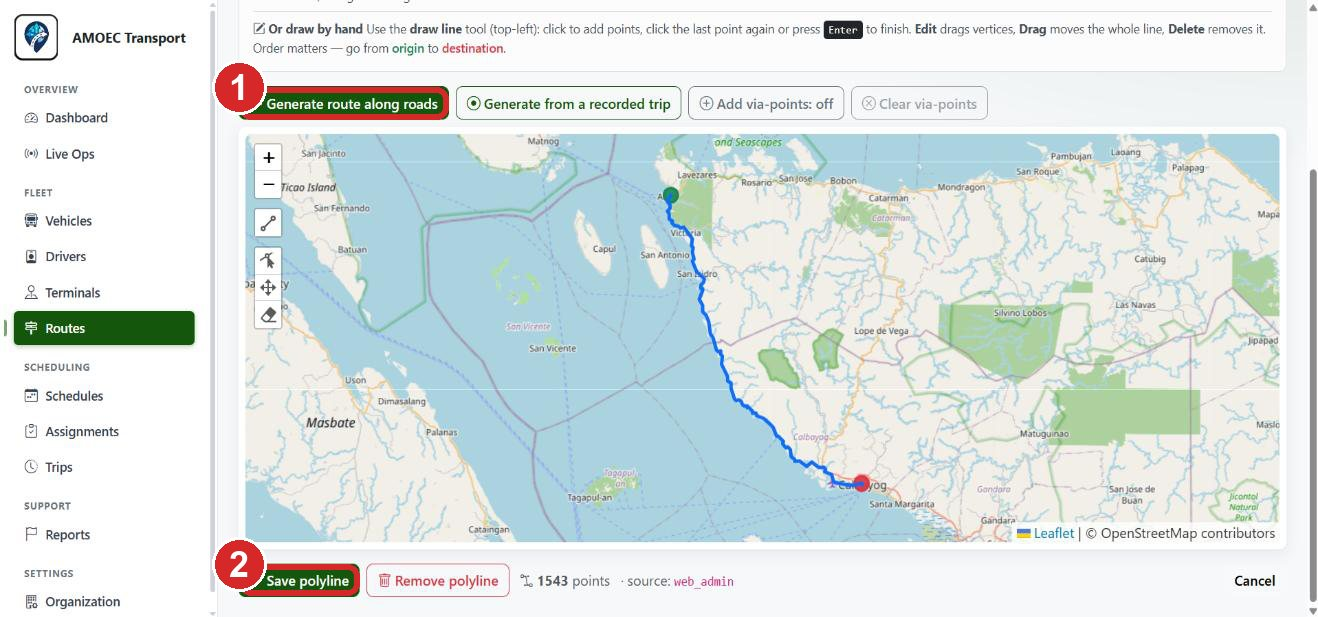
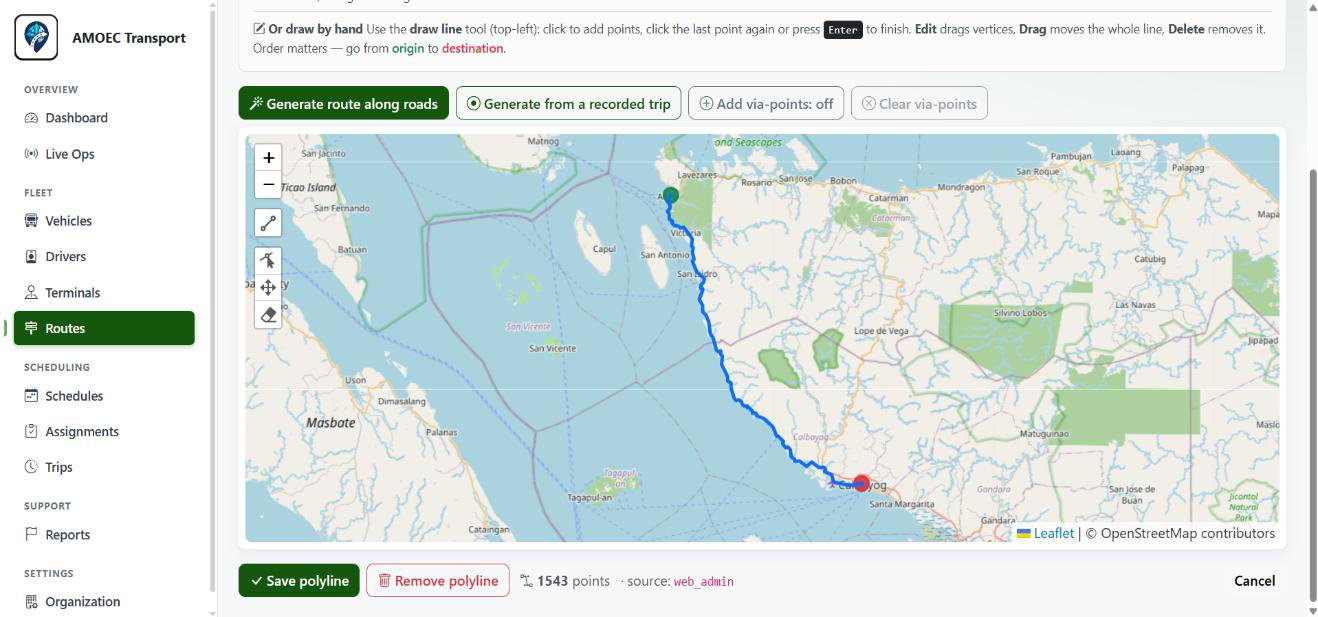
Landing page: clean sharper screenshots, real bus marker, passenger-waits story
Screens use the untouched raw screenshots (no red manual numbers) at native resolution,
JPEG q92-94; the low-resolution live-map crop is replaced by the 517x1149 capture.
The hero now tells one ride: a passenger waits at a stop on the route, the bus (the same
top-down marker the app and console draw, live green with the brand stripe) approaches
while the ETA counts down, the passenger boards, and the bus carries on to Calbayog.
A four-step strip under the picture lights up with the current step.

diff --git a/public/js/landing.js b/public/js/landing.js
@@ -61,40 +61,79 @@
         items.forEach(function (el) { el.classList.add('in'); });
     }
 
-    // ---------- the bus driving along the route ----------
+    // ---------- one ride: a passenger waits, the bus comes, the passenger boards, the bus goes on ----------
     var stage = document.getElementById('routeStage');
     var path = document.getElementById('routePath');
     var done = document.getElementById('routeDone');
     var bus = document.getElementById('busMarker');
     var bubble = document.getElementById('etaBubble');
     var etaText = document.getElementById('etaText');
-    if (stage && path && done && bus && bubble && etaText) {
+    var waiter = document.getElementById('waiter');
+    var stepItems = document.querySelectorAll('#routeSteps li');
+    if (stage && path && done && bus && bubble && etaText && waiter) {
         var len = path.getTotalLength();
-        var PERIOD = 11000, PAUSE = 1400;
-        var place = function (t) {
+        var STOP = 0.42;                                   // where along the route the passenger waits
+        var A = 6500, B = 1800, C = 6500, D = 1800;        // approach, boarding, ride, arrival (ms)
+        var CYCLE = A + B + C + D;
+
+        // put the passenger beside the route at the stop, on the side with more room (up and to the left)
+        (function () {
+            var p = path.getPointAtLength(len * STOP), q = path.getPointAtLength(len * STOP + 3);
+            var dx = q.x - p.x, dy = q.y - p.y, n = Math.sqrt(dx * dx + dy * dy) || 1;
+            var nx = -dy / n, ny = dx / n;                 // a normal of the route
+            if (ny > 0) { nx = -nx; ny = -ny; }            // pick the one that points up
+            waiter.setAttribute('transform', 'translate(' + (p.x + nx * 36) + ' ' + (p.y + ny * 36) + ')');
+        })();
+
+        var ease = function (x) { return x < 0.5 ? 2 * x * x : 1 - Math.pow(-2 * x + 2, 2) / 2; };
+        var setStep = function (n) {
+            stepItems.forEach(function (li) { li.classList.toggle('active', Number(li.getAttribute('data-step')) === n); });
+        };
+        var place = function (t, label) {
             var p = path.getPointAtLength(len * t);
-            var q = path.getPointAtLength(Math.min(len, len * t + 2));
-            var ang = Math.atan2(q.y - p.y, q.x - p.x) * 180 / Math.PI * 0.45; // lean a little with the road
-            bus.setAttribute('transform', 'translate(' + p.x + ' ' + p.y + ') rotate(' + ang + ')');
-            var bx = Math.min(548, Math.max(56, p.x)), by = Math.max(64, p.y);
+            var a0 = path.getPointAtLength(Math.max(0, len * t - 6)), a1 = path.getPointAtLength(Math.min(len, len * t + 6));
+            var heading = Math.atan2(a1.y - a0.y, a1.x - a0.x) * 180 / Math.PI + 90;   // the marker points up at 0 deg
+            bus.setAttribute('transform', 'translate(' + p.x + ' ' + p.y + ') rotate(' + heading.toFixed(1) + ')');
+            var bx = Math.min(536, Math.max(64, p.x)), by = Math.max(68, p.y - 20);
             bubble.setAttribute('transform', 'translate(' + bx + ' ' + by + ')');
             done.setAttribute('stroke-dasharray', (len * t) + ' ' + len);
-            etaText.textContent = t > 0.985 ? 'Arrived' : 'ETA ' + Math.max(1, Math.ceil(12 * (1 - t))) + ' min';
+            etaText.textContent = label;
+        };
+        var frameAt = function (el) {
+            var t, label, step, show = 1;
+            if (el < A) {                                  // the bus comes to the passenger
+                var p = el / A;
+                t = ease(p) * STOP;
+                label = p > 0.97 ? 'Bus is here' : 'ETA ' + Math.max(1, Math.ceil(6 * (1 - p))) + ' min';
+                step = p < 0.16 ? 1 : 2;
+            } else if (el < A + B) {                       // boarding
+                var k = (el - A) / B;
+                t = STOP; label = k < 0.5 ? 'Boarding' : 'Boarded'; step = 3; show = k < 0.5 ? 1 : 0;
+            } else if (el < A + B + C) {                   // the ride to the destination
+                var r = (el - A - B) / C;
+                t = STOP + ease(r) * (1 - STOP);
+                label = r > 0.97 ? 'Arriving' : 'Calbayog in ' + Math.max(1, Math.ceil(8 * (1 - r))) + ' min';
+                step = 3; show = 0;
+            } else {                                       // arrived
+                t = 1; label = 'Arrived'; step = 4; show = 0;
+            }
+            place(t, label);
+            waiter.style.opacity = show;
+            setStep(step);
         };
         if (reduce) {
-            place(0.45);                                  // one still picture, no loop
+            frameAt(A * 0.55);                             // one still picture, no loop
         } else {
             var raf = 0, startedAt = null;
-            var ease = function (x) { return x < 0.5 ? 2 * x * x : 1 - Math.pow(-2 * x + 2, 2) / 2; };
             var frame = function (ts) {
                 if (startedAt === null) startedAt = ts;
-                var el = (ts - startedAt) % (PERIOD + PAUSE);
-                place(el >= PERIOD ? 1 : ease(el / PERIOD) * 0.995 + (el / PERIOD) * 0.005);
+                frameAt((ts - startedAt) % CYCLE);
                 raf = requestAnimationFrame(frame);
             };
             whileVisible(stage,
                 function () { if (!raf) raf = requestAnimationFrame(frame); },
                 function () { if (raf) { cancelAnimationFrame(raf); raf = 0; } });
+            frameAt(0);                                    // a first frame at once, before the loop starts
         }
     }
 

diff --git a/public/css/landing.css b/public/css/landing.css
@@ -46,8 +46,19 @@ body { font-family: Arial, Helvetica, sans-serif; color: var(--ink); background:
 .route-svg .stop circle { fill: #fff; stroke: var(--accent); stroke-width: 4; }
 .route-svg .stop text { fill: #fff; font-size: 17px; font-weight: 700; }
 .route-svg #etaText { fill: var(--brand); font-size: 15px; font-weight: 700; }
-.route-svg .pulse { fill: rgba(255, 193, 7, .3); animation: pulse 1.8s ease-out infinite; transform-box: fill-box; transform-origin: center; }
-@keyframes pulse { 0% { transform: scale(.6); opacity: .9; } 100% { transform: scale(1.7); opacity: 0; } }
+.route-svg #busMarker { filter: drop-shadow(0 3px 4px rgba(0, 0, 0, .5)); }
+/* the waiting passenger: a pulsing ring so the eye finds them, and a tag that says so */
+.route-svg #waiter { transition: opacity .5s ease; }
+.route-svg .wait-ring { fill: rgba(255, 193, 7, .35); animation: pulse 1.8s ease-out infinite; transform-box: fill-box; transform-origin: center; }
+.route-svg .wait-tag text { fill: var(--brand); font-size: 12.5px; font-weight: 700; }
+@keyframes pulse { 0% { transform: scale(.7); opacity: .95; } 100% { transform: scale(1.9); opacity: 0; } }
+
+/* the four steps of the ride under the picture; the current one lights up */
+.route-steps { list-style: none; display: grid; grid-template-columns: repeat(4, 1fr); gap: .5rem; margin: .9rem 0 0; padding: 0; }
+.route-steps li { display: flex; flex-direction: column; align-items: center; gap: .2rem; text-align: center; padding: .55rem .3rem; border-radius: .75rem; background: rgba(255, 255, 255, .07); color: rgba(255, 255, 255, .7); font-size: .78rem; line-height: 1.2; border: 1px solid transparent; transition: background .3s, color .3s, border-color .3s, transform .3s; }
+.route-steps li i { font-size: 1.15rem; }
+.route-steps li.active { background: rgba(255, 193, 7, .2); color: #fff; border-color: rgba(255, 193, 7, .75); transform: translateY(-3px); }
+@media (max-width: 575.98px) { .route-steps li span { font-size: .7rem; } }
 
 /* ---------- sections ---------- */
 .section { padding: 5.5rem 0; }
@@ -135,7 +146,7 @@ body { font-family: Arial, Helvetica, sans-serif; color: var(--ink); background:
 @media (prefers-reduced-motion: reduce) {
     html { scroll-behavior: auto; }
     .js .reveal { opacity: 1; transform: none; transition: none; }
-    .route-svg .pulse { animation: none; }
+    .route-svg .wait-ring { animation: none; }
     .stat:hover, .step-card:hover, .feature-card:hover, .user-card:hover, .screen-tab:hover { transform: none; }
 }
 @media (max-width: 575.98px) {

diff --git a/resources/views/landing.blade.php b/resources/views/landing.blade.php
@@ -28,10 +28,12 @@
                 </div>
 
                 <div class="col-lg-6 reveal">
-                    {{-- A bus drives along a route and its arrival time counts down. Drawn in SVG, moved by landing.js. --}}
+                    {{-- The story of one ride, drawn in SVG and moved by landing.js: a passenger waits at their stop, the bus approaches while
+                         the arrival time counts down, the passenger boards, and the bus carries on to the destination.
+                         The bus is the same top-down marker the app and the console draw on their maps. --}}
                     <div class="route-stage" id="routeStage">
                         <svg viewBox="0 0 600 400" class="route-svg" role="img"
-                             aria-label="A bus travelling along a route from Allen to Calbayog while its estimated arrival time counts down">
+                             aria-label="A passenger waits at a stop on the route from Allen to Calbayog. A bus approaches while its arrival time counts down, the passenger boards, and the bus continues to Calbayog.">
                             <defs>
                                 <linearGradient id="routeGrad" x1="0" x2="1">
                                     <stop offset="0" stop-color="#ffd54f"/>
@@ -42,22 +44,42 @@
                                   fill="none" stroke="rgba(255,255,255,.28)" stroke-width="10" stroke-linecap="round"/>
                             <path id="routeDone" d="M40 330 C 140 300, 150 170, 250 195 S 400 305, 470 160 S 550 80, 565 60"
                                   fill="none" stroke="url(#routeGrad)" stroke-width="4" stroke-linecap="round" stroke-dasharray="0 2000"/>
-                            <g class="stop"><circle cx="40" cy="330" r="9"/><text x="40" y="360" text-anchor="middle">Allen</text></g>
+                            <g class="stop"><circle cx="40" cy="330" r="9"/><text x="40" y="362" text-anchor="middle">Allen</text></g>
                             <g class="stop"><circle cx="565" cy="60" r="9"/><text x="588" y="94" text-anchor="end">Calbayog</text></g>
+
+                            {{-- the waiting passenger (placed on the route by landing.js) --}}
+                            <g id="waiter">
+                                <circle class="wait-ring" r="20"/>
+                                <circle r="15" fill="#ffc107" stroke="#fff" stroke-width="2.5"/>
+                                <circle cx="0" cy="-5.2" r="4.3" fill="#165935"/>
+                                <path d="M-7.4 8.2 C-7.4 0.6 7.4 0.6 7.4 8.2 Z" fill="#165935"/>
+                                <g class="wait-tag"><rect x="-47" y="-48" width="94" height="22" rx="11" fill="#fff"/><text x="0" y="-33" text-anchor="middle">You wait here</text></g>
+                            </g>
+
+                            {{-- the bus: the same marker as the app and the console (body = live green, operator stripe across the roof) --}}
                             <g id="busMarker">
-                                <circle r="22" class="pulse"/>
-                                <g class="bus-body">
-                                    <rect x="-15" y="-10" width="30" height="20" rx="5" fill="#ffc107"/>
-                                    <rect x="-11" y="-6" width="9" height="6" rx="1.5" fill="#165935"/>
-                                    <rect x="1" y="-6" width="9" height="6" rx="1.5" fill="#165935"/>
-                                    <circle cx="-8" cy="10" r="3" fill="#212529"/><circle cx="8" cy="10" r="3" fill="#212529"/>
+                                <g class="bus-shadow"><ellipse rx="16" ry="26" fill="rgba(0,0,0,.28)" transform="translate(4 5)"/></g>
+                                <g transform="scale(1.25) translate(-27 -27)">
+                                    <rect x="15.93" y="15.81" width="2.97" height="1.62" rx=".81" fill="#0b5a28"/>
+                                    <rect x="35.1" y="15.81" width="2.97" height="1.62" rx=".81" fill="#0b5a28"/>
+                                    <rect x="18.9" y="10.26" width="16.2" height="33.48" rx="4.46" fill="#15A04A" stroke="#0b5a28" stroke-width="1.1"/>
+                                    <rect x="20.68" y="12.6" width="12.64" height="5.03" rx="1.2" fill="#1C2B33" opacity=".92"/>
+                                    <rect x="21.65" y="37.04" width="10.7" height="4.36" rx="1.2" fill="#1C2B33" opacity=".92"/>
+                                    <rect x="21.01" y="20.3" width="11.98" height="14.07" rx="1.1" fill="#F2F4F5" opacity=".95"/>
+                                    <rect x="21.01" y="26.36" width="11.98" height="1.94" fill="#165935"/>
                                 </g>
                             </g>
                             <g id="etaBubble">
-                                <rect x="-46" y="-52" width="92" height="30" rx="15" fill="#fff"/>
-                                <text id="etaText" x="0" y="-32" text-anchor="middle">ETA 12 min</text>
+                                <rect id="etaBox" x="-62" y="-60" width="124" height="30" rx="15" fill="#fff"/>
+                                <text id="etaText" x="0" y="-40" text-anchor="middle">ETA 6 min</text>
                             </g>
                         </svg>
+                        <ol class="route-steps" id="routeSteps" aria-hidden="true">
+                            <li data-step="1"><i class="bi bi-person-standing"></i><span>Wait at your stop</span></li>
+                            <li data-step="2"><i class="bi bi-clock-history"></i><span>Bus approaches</span></li>
+                            <li data-step="3"><i class="bi bi-person-check-fill"></i><span>Board and ride</span></li>
+                            <li data-step="4"><i class="bi bi-flag-fill"></i><span>Arrive</span></li>
+                        </ol>
                     </div>
                 </div>
             </div>
@@ -190,7 +212,7 @@
                 <div class="col-lg-6 text-center">
                     <div class="phone-scene" id="phoneScene">
                         <div class="phone" id="phone">
-                            <div class="face front"><img id="phoneImg" src="{{ asset('images/landing/card.jpg') }}" alt="Live map with the closest bus, its distance and its arrival time" width="310" height="660"></div>
+                            <div class="face front"><img id="phoneImg" src="{{ asset('images/landing/live.jpg') }}" alt="Live map with the closest bus, its distance and its arrival time" width="310" height="690"></div>
                             <div class="face back"><img src="{{ asset('images/amoec-logo.png') }}" alt="" width="96" height="96"><span>AMOEC Track</span></div>
                             <div class="side side-l"></div><div class="side side-r"></div><div class="side side-t"></div><div class="side side-b"></div>
                         </div>
@@ -199,16 +221,21 @@
                 <div class="col-lg-6">
                     <h3 class="h4 mb-3">Choose a screen</h3>
                     <div class="d-grid gap-2" id="phoneTabs">
-                        <button type="button" class="screen-tab active" aria-pressed="true" data-src="{{ asset('images/landing/card.jpg') }}" data-alt="Live map with the closest bus, its distance and its arrival time">
-                            <i class="bi bi-geo-alt-fill"></i><span><strong>Live map</strong><small>Closest bus, distance, ETA and seats</small></span></button>
-                        <button type="button" class="screen-tab" aria-pressed="false" data-src="{{ asset('images/landing/offline.jpg') }}" data-alt="Offline ETA Mode when a bus has no signal">
-                            <i class="bi bi-wifi-off"></i><span><strong>Offline ETA Mode</strong><small>Keeps estimating when the signal is lost</small></span></button>
-                        <button type="button" class="screen-tab" aria-pressed="false" data-src="{{ asset('images/landing/schedules.jpg') }}" data-alt="Schedules with the next departure of each route">
-                            <i class="bi bi-calendar3"></i><span><strong>Schedules</strong><small>Timetables and the next departure</small></span></button>
-                        <button type="button" class="screen-tab" aria-pressed="false" data-src="{{ asset('images/landing/reportform.jpg') }}" data-alt="The report form with evidence and anonymous option">
-                            <i class="bi bi-flag-fill"></i><span><strong>Report a problem</strong><small>With a photo or video, even anonymously</small></span></button>
-                        <button type="button" class="screen-tab" aria-pressed="false" data-src="{{ asset('images/landing/start.jpg') }}" data-alt="The driver&rsquo;s Start Trip screen">
-                            <i class="bi bi-person-badge-fill"></i><span><strong>Driver: start a trip</strong><small>Checks, direction and depart</small></span></button>
+                        @php
+                            $screens = [
+                                ['live', 'bi-geo-alt-fill', 'Live map and ETA', 'Closest bus, distance, arrival time and seats', 'Live map with the closest bus, its distance and its arrival time'],
+                                ['route', 'bi-signpost-split-fill', 'Choose your route', 'Pick where you board and where you go', 'The route picker with the From and To terminals'],
+                                ['schedules', 'bi-calendar3', 'Schedules', 'Timetables and the next departure', 'Schedules with the next departure of each route'],
+                                ['report', 'bi-flag-fill', 'Report a problem', 'With a photo or video, even anonymously', 'The report form with evidence and the anonymous option'],
+                                ['start', 'bi-person-badge-fill', 'Driver: start a trip', 'Checks, direction and depart', 'The driver&rsquo;s Start New Trip screen'],
+                                ['progress', 'bi-broadcast', 'Driver: trip in progress', 'Location shared, seat status one tap away', 'The driver&rsquo;s Trip in Progress screen with the occupancy buttons'],
+                            ];
+                        @endphp
+                        @foreach ($screens as $i => [$img, $icon, $title, $sub, $alt])
+                            <button type="button" class="screen-tab {{ $i ? '' : 'active' }}" aria-pressed="{{ $i ? 'false' : 'true' }}"
+                                    data-src="{{ asset('images/landing/'.$img.'.jpg') }}" data-alt="{{ $alt }}">
+                                <i class="bi {{ $icon }}"></i><span><strong>{{ $title }}</strong><small>{{ $sub }}</small></span></button>
+                        @endforeach
                     </div>
                 </div>
             </div>
@@ -227,7 +254,7 @@
                     <div class="col-md-6 reveal">
                         <figure class="browser tilt" data-tilt>
                             <div class="browser-bar"><i></i><i></i><i></i><span>amoec-track-admin.onrender.com</span></div>
-                            <img src="{{ asset('images/landing/'.$img.'.jpg') }}" alt="{{ $label }}" loading="lazy" width="750" height="450">
+                            <img src="{{ asset('images/landing/'.$img.'.jpg') }}" alt="{{ $label }}" loading="lazy" width="1318" height="630">
                             <figcaption>{{ $label }}</figcaption>
                         </figure>
                     </div>

diff --git a/resources/views/layouts/public.blade.php b/resources/views/layouts/public.blade.php
@@ -9,7 +9,7 @@
     <meta property="og:title" content="AMOEC Track">
     <meta property="og:description" content="Know where your bus is before you leave. Live bus tracking for passengers, drivers and cooperatives.">
     <meta property="og:type" content="website">
-    <meta property="og:image" content="{{ asset('images/landing/card.jpg') }}">
+    <meta property="og:image" content="{{ asset('images/landing/live.jpg') }}">
 
     <link rel="icon" href="{{ asset('favicon.ico') }}" sizes="any">
     <link rel="icon" type="image/png" sizes="32x32" href="{{ asset('images/favicon-32.png') }}">
